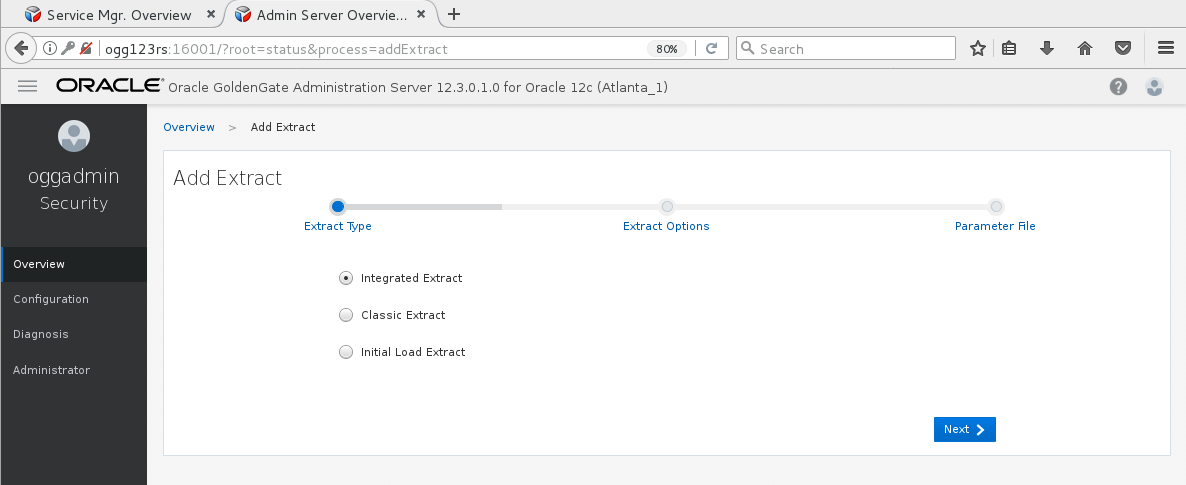
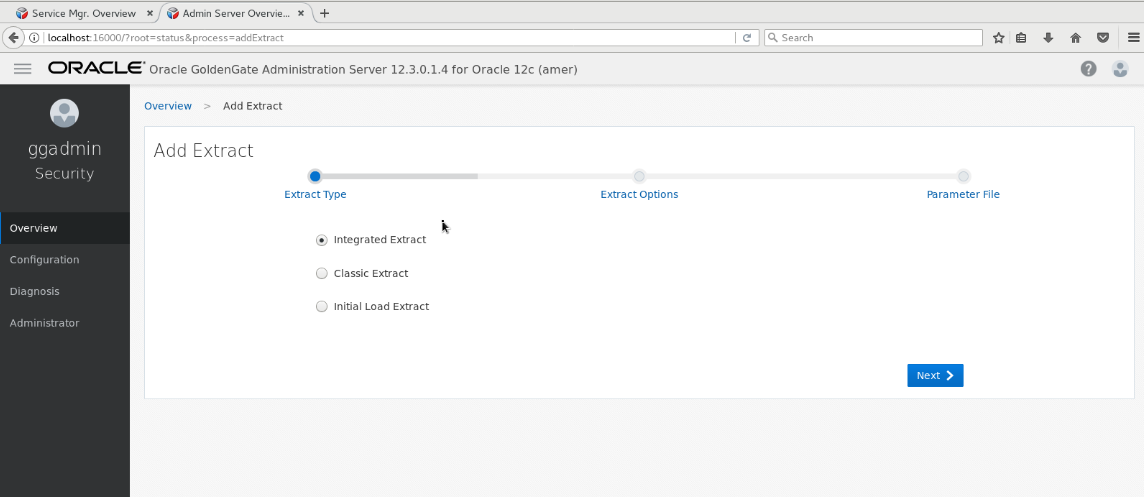
updated

diff --git a/workshops/gg/CloudWorkshop_GoldenGate_400.md b/workshops/gg/CloudWorkshop_GoldenGate_400.md
@@ -7,8 +7,6 @@ Update August 2, 2018
 
 This lab walk you through bidirectional and auto CDR between two database schemas using Goldengate 12.3 micro services web interface in a Ravello environment.
 
-![](images/400/Lab400_image104.png)
-
 This lab supports the following use cases:
 -	Seting up bidirection goldengate replication between two databases.
 -	Setting up auto conflict detection and resolution.
@@ -22,90 +20,81 @@ This lab supports the following use cases:
 
 ## Required Artifacts
 
-Lab 7a: Configure Uni-Directional Replication from AMER DB to EURO DB (Integrated Extract)
+Lab A: Configure Uni-Directional Replication from AMER DB to EURO DB (Integrated Extract)
 
 Objective:
 
-This lab is in two parts.  The first part will setup the Integrated Extract for Oracle GoldenGate 12c Service Architecture for a uni-directional configuration using the SOE schema in PDB1 and PDB2. 
+This lab is in two parts.  The first part will setup the Integrated Extract for Oracle GoldenGate 12c Service Architecture for a uni-directional configuration using the SOE schema in AMER and EURO. 
 
 Time: 25 minutes
 
 Steps:
 
-1.	Open Firefox and login to the Service Manager using the Administrator account you setup during deployment (Figure 7a-1). Port number will vary depending on what you used during setup.
+1.	Open Firefox and login to the Service Manager using the Administrator account you setup during deployment (Figure A-1). Port number will vary depending on what you used during setup.
 
-For Ravello Environment
-http://<dns url>:16000
-http://localhost:16000
-http://<Private IP>:1600
+For Ravello Environment - 
+http://<dns url>:8890 or
+http://localhost:8890 or
+http://<Private IP>:8890
 
 
-Figure 7a-1:
+Figure A-1:
 
 ![](images/400/Lab400_image110.png) 
  
 
-2.	After logging in, find and open the Administration Server for your first deployment.  In this example, the first deployment is Atlanta_1 (Figure 7a-2).  When the page is completely open, you should be at a page where you can see Extracts/Replicats clearly.
+2.	After logging in, find and open the Administration Server for your deployment.  In this example, the deployment is amer (Figure A-2).  When the page is completely open, you should be at a page where you can see Extracts/Replicats clearly.
 Note: You will be required to login again.  Use the same Administrator account that was used with the Service Manager.
 
-Figure 7a-2:
+Figure A-2:
 
 ![](images/400/Lab400_image120.png) 
  
 
-3.	Before you can create an Extract, you need to setup a credential alias for the GoldenGate user (C##GGATE).  This is done from the Configuration menu option in the grey bar on the left of the screen (Figure 7a-3).
+3.	Before you can create an Extract, you need to setup a credential alias for the GoldenGate user (GGADMIN).  This is done from the Configuration menu option in the grey bar on the left of the screen (Figure A-3).
 
-Figure 7a-3:
+Figure A-3:
 
 ![](images/400/Lab400_image130.png) 
 
 ![](images/400/Lab400_image140.png) 
  
 
-4.	On the Configuration page, select the plus ( + ) sign to begin adding a credential.  At this point, you will be able to add a Credential Alias (Figure 7a-4).  You will need to add the alias for a user that will connect to CDB and PDB1.  The CDB alias will be used to connect to the database to read the required files for extraction operations, and the PDB1 user will be used to add TRANDATA to the schemas used in replication.
+4.	On the Configuration page, select the plus ( + ) sign to begin adding a credential.  At this point, you will be able to add a Credential Alias (Figure A-4).  You will need to add the alias for a user that will connect to DB.  The DB alias will be used to connect to the database to read the required files for extraction operations, and to add TRANDATA to the schemas used in replication.
 
-Figure 7a-4:
+Figure A-4:
 
 ![](images/400/Lab400_image150.png) 
  
 
 You will notice that a Domain name and Credential Alias were added along with the User ID and Password.  After adding the user to the credential store, you will reference it via its domain name and credential alias.
 
-You will need to create two (2) credential aliases for your Atlanta_1 deployment. The first credential will be for the CDB database and the second will be for the PDB1 database. The table below shows what needs to be added:
+5.	Verify that the credentials you just created work.  There is a little man icon under Action in the table.  Click on this for each Credential Alias and you should be able to login to the database (Figure A-5).
 
-
-Credential Domain	Credential Alias	UserID	Password
-SGGATE	SGGATE	C##GGATE@PDB1	ggate
-CDBGGATE	CDBGGATE	C##GGATE@CDB	ggate
- 
-
-5.	Verify that the credentials you just created work.  There is a little man icon under Action in the table.  Click on this for each Credential Alias and you should be able to login to the database (Figure 7a-5).
-
-Figure 7a-5:
-
+Figure A-5:
 ![](images/400/Lab400_image160.png) 
  
 
-6.	Add SCHEMATRANDATA to the SOE schema using the SGGATE Credential Alias.  
-After logging into the database as described in step 5 for PDB1, find the Trandata section.  Click on the plus ( + ) sign and make sure that the radio button for Schema is selected (Figure 7a-6).  At this point, you provide the Schema Name, enable All Columns and Scheduling Columns, and click Submit.
+6.	Add SCHEMATRANDATA to the SOE schema using the GGADMIN Credential Alias.  
+After logging into the database as described in step 5 for the DB, find the Trandata section.  Click on the plus ( + ) sign and make sure that the radio button for Schema is selected (Figure A-6).  At this point, you provide the Schema Name, enable All Columns and Scheduling Columns, and click Submit.
 
-Figure 7a-6:
+Figure A-6:
 
 ![](images/400/Lab400_image170.png) 
  
 
-You will notice that after you click Submit, there is no return message that states the operation was successful.  You can verify that SCHEMATRANDATA has been added by looking searching by Schema (Figure 7a-7).  To do this, click on the magnifying glass and provide the Schema name.
+You will notice that after you click Submit, there is no return message that states the operation was successful.  You can verify that SCHEMATRANDATA has been added by looking searching by Schema (Figure A-7).  To do this, click on the magnifying glass and provide the Schema name.
 
-Figure 7a-7:
+Figure A-7:
 
 ![](images/400/Lab400_image180.png) 
  
 
 7.	Add the Protocol user.
 Since we are on the Credential screen, let’s go ahead and add a Protocol user.  A Protocol user is the user that the Distribution Server will use to communicate with the Receiver Server over an unsecure connection.
-As you did in Step 4, click the plus sign ( + ) next to the word Credentials.  Then provide the connection information needed (Figure 7a-8), notice that you will be using the Service Manager login in this credential.
+As you did in Step 4, click the plus sign ( + ) next to the word Credentials.  Then provide the connection information needed (Figure A-8), notice that you will be using the Service Manager login in this credential.
 
-Figure 7a-8:
+Figure A-8:
 
 ![](images/400/Lab400_image190.png) 
  
@@ -113,31 +102,29 @@ Figure 7a-8:
 For now, just leave this login alone.  It will be used in a later step. 
 
 8.	Add the Integrated Extract.
-Navigate back to the Overview page of the Administration Server (Figure 7a-9).  Then click on the plus sign ( + ) in the box for Extracts.
+Navigate back to the Overview page of the Administration Server (Figure A-9).  Then click on the plus sign ( + ) in the box for Extracts.
 
-Figure 7a-9:
+Figure A-9:
 
-![](images/400/Lab400_image400.png) 
+![](images/400/Lab400_image200.png) 
 
 
-After clicking the plus sign ( + ), you are taken to the Add Extract page (Figure 7a-10).  Here you can choose from three different types of Extracts.  You will be installing an Integrated Extract.  Click Next.
+After clicking the plus sign ( + ), you are taken to the Add Extract page (Figure A-10).  Here you can choose from three different types of Extracts.  You will be installing an Integrated Extract.  Click Next.
 
-Figure 7a-10:
+Figure A-10:
 
 ![](images/400/Lab400_image210.png) 
 
 
-The next page of the Add Extract process, is to provide the basic information for the Extract. Items required have a star ( * ) next to them.  Provide the required information and then click Next (Figure 7a-11).  Keep in mind that the credentials needed to register the Extract need to be against the CDB. Use the CDB domain and alias that you setup previously.
+The next page of the Add Extract process, is to provide the basic information for the Extract. Items required have a star ( * ) next to them.  Provide the required information and then click Next (Figure A-11).  
 
-When using the CDB credential, at the bottom of the page, you will be presented with a box where you can select the PDB that will be used. This will only appear when you have a valid credential for the CDB.  Once you see this box, make sure you select PDB1. 
-
-Figure 7a-11:
+Figure A-11:
 
 ![](images/400/Lab400_image220.png) 
  
 
-On the last page of the Add Extract process, you are presented with a parameter file (Figure 7a-12).  The parameter file is partially filled out, but missing the TABLE parameters. Insert the following list of TABLE parameter values into the parameter file.
-SOURCECATALOG PDB1
+On the last page of the Add Extract process, you are presented with a parameter file (Figure A-12).  The parameter file is partially filled out, but missing the TABLE parameters. Insert the following list of TABLE parameter values into the parameter file.
+
 TABLE SOE.ADDRESSES;
 TABLE SOE.CUSTOMERS;
 TABLE SOE.ORDERS;
@@ -153,13 +140,13 @@ TABLE SOE.ORDERENTRY_METADATA;
 Notes: ~/Desktop/Software/extract.prm has these contents for copying.
 Once the TABLE statements are added, click Create and Run at the bottom of the page.
 
-Figure 7a-12:
+Figure A-12:
  
 ![](images/400/Lab400_image230.png) 
 
-The Administration Server page will refresh when the process is done registering the Extract with the database, and will show that the Extract is up and running (Figure 7a-13).
+The Administration Server page will refresh when the process is done registering the Extract with the database, and will show that the Extract is up and running (Figure A-13).
 
-Figure 7a-13:
+Figure A-13:
  
 ![](images/400/Lab400_image240.png) 
 
